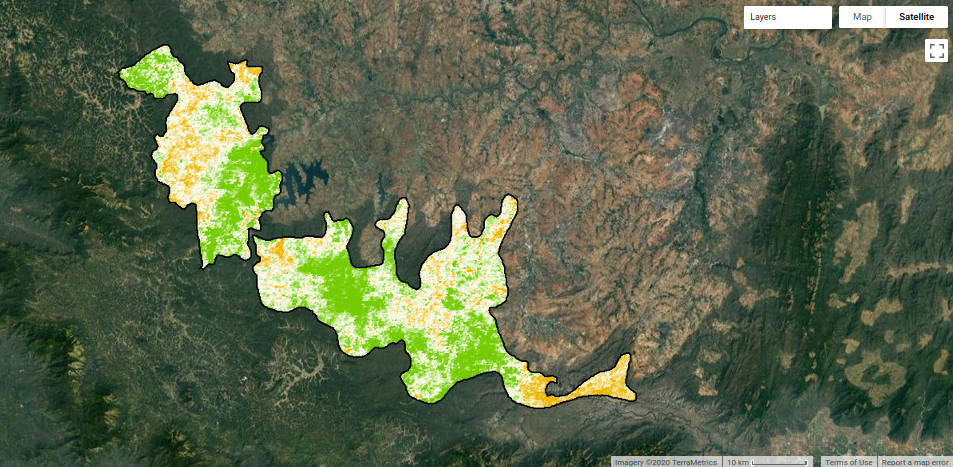
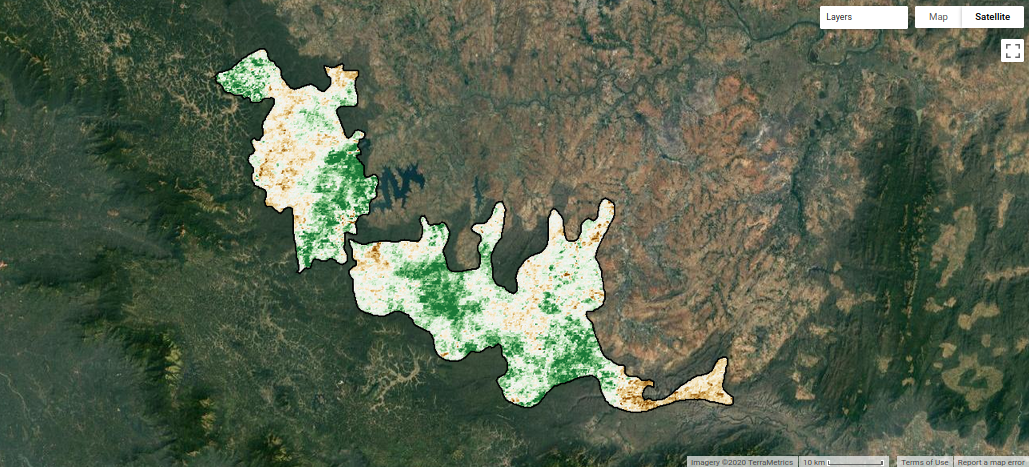
Tweak map viz params for more brightness range and variability

diff --git a/tutorials/forest-vegetation-condition/index.md b/tutorials/forest-vegetation-condition/index.md
@@ -171,9 +171,13 @@ Choose suitable visualization parameters and display the slope values on the map
 // display on map
 Map.setOptions('SATELLITE');
 // set visualisation parameters for greening and browning areas
-var visParams = {opacity: 1, bands: ['slope'],
-  min: -40, max: 40,
-  palette: ['ebb801', 'ffffff', '76cc04']
+var visParams = {
+  opacity: 1,
+  bands: ['slope'],
+  min: -55,
+  max: 55,
+  palette:
+    ['8c510a', 'd8b365', 'f6e8c3', 'f5f5f5', 'd9f0d3', '7fbf7b', '1b7837']
 };
 Map.addLayer(sens.clipToCollection(nps), visParams, 'Sen\'s slope');
 // draw forest boundaries
